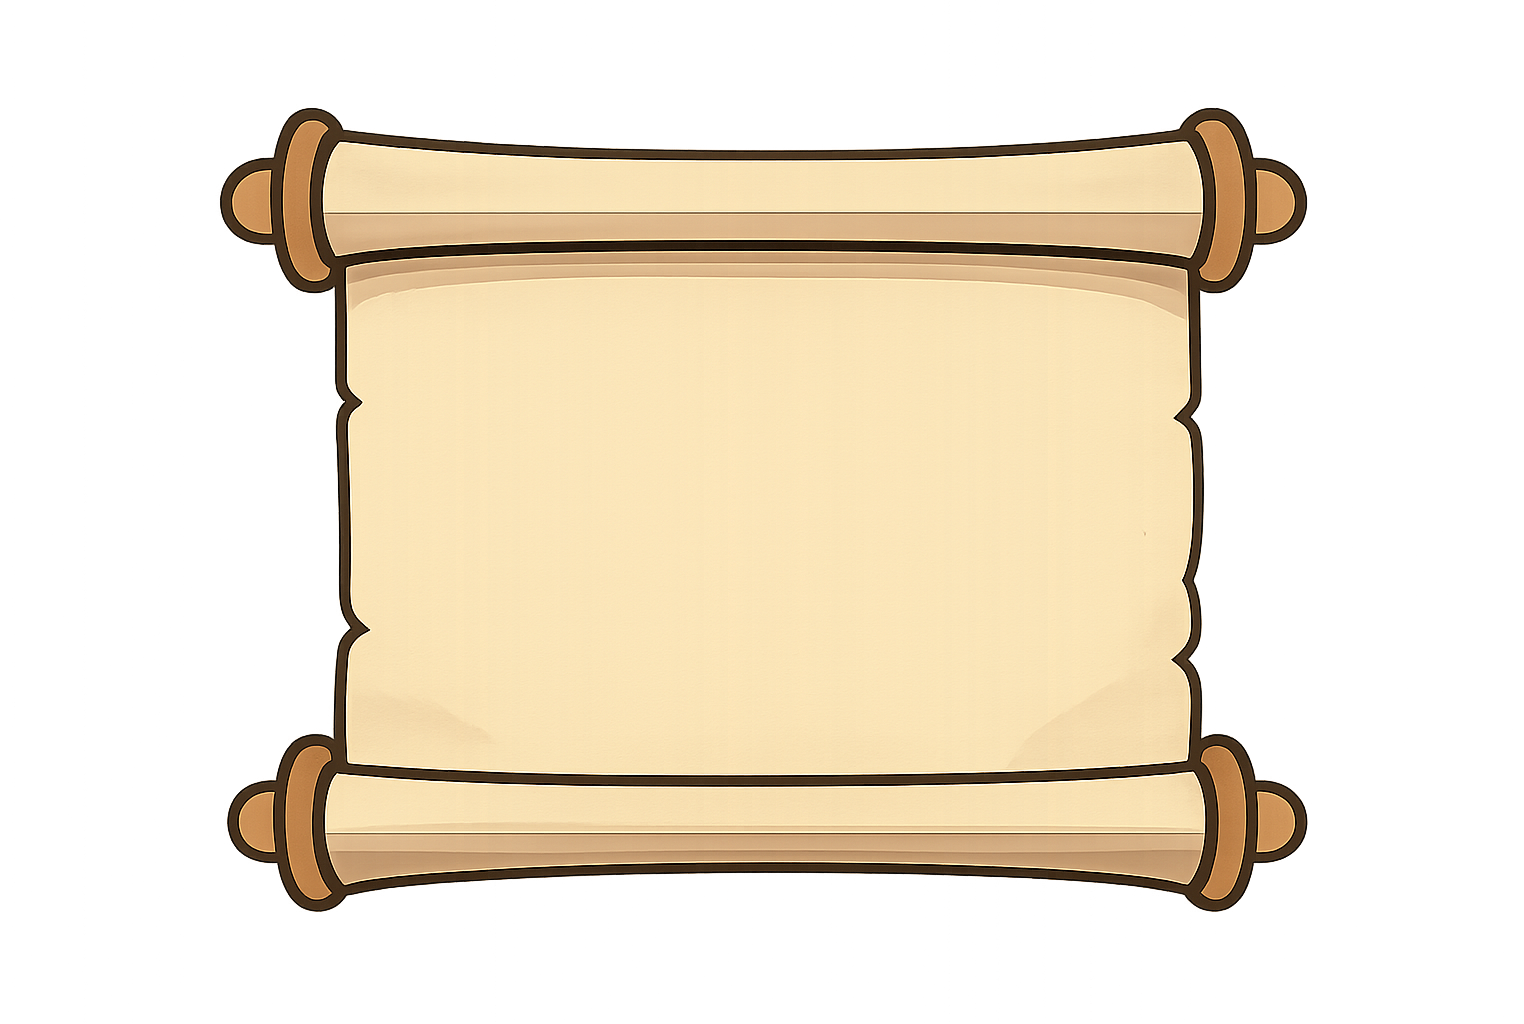
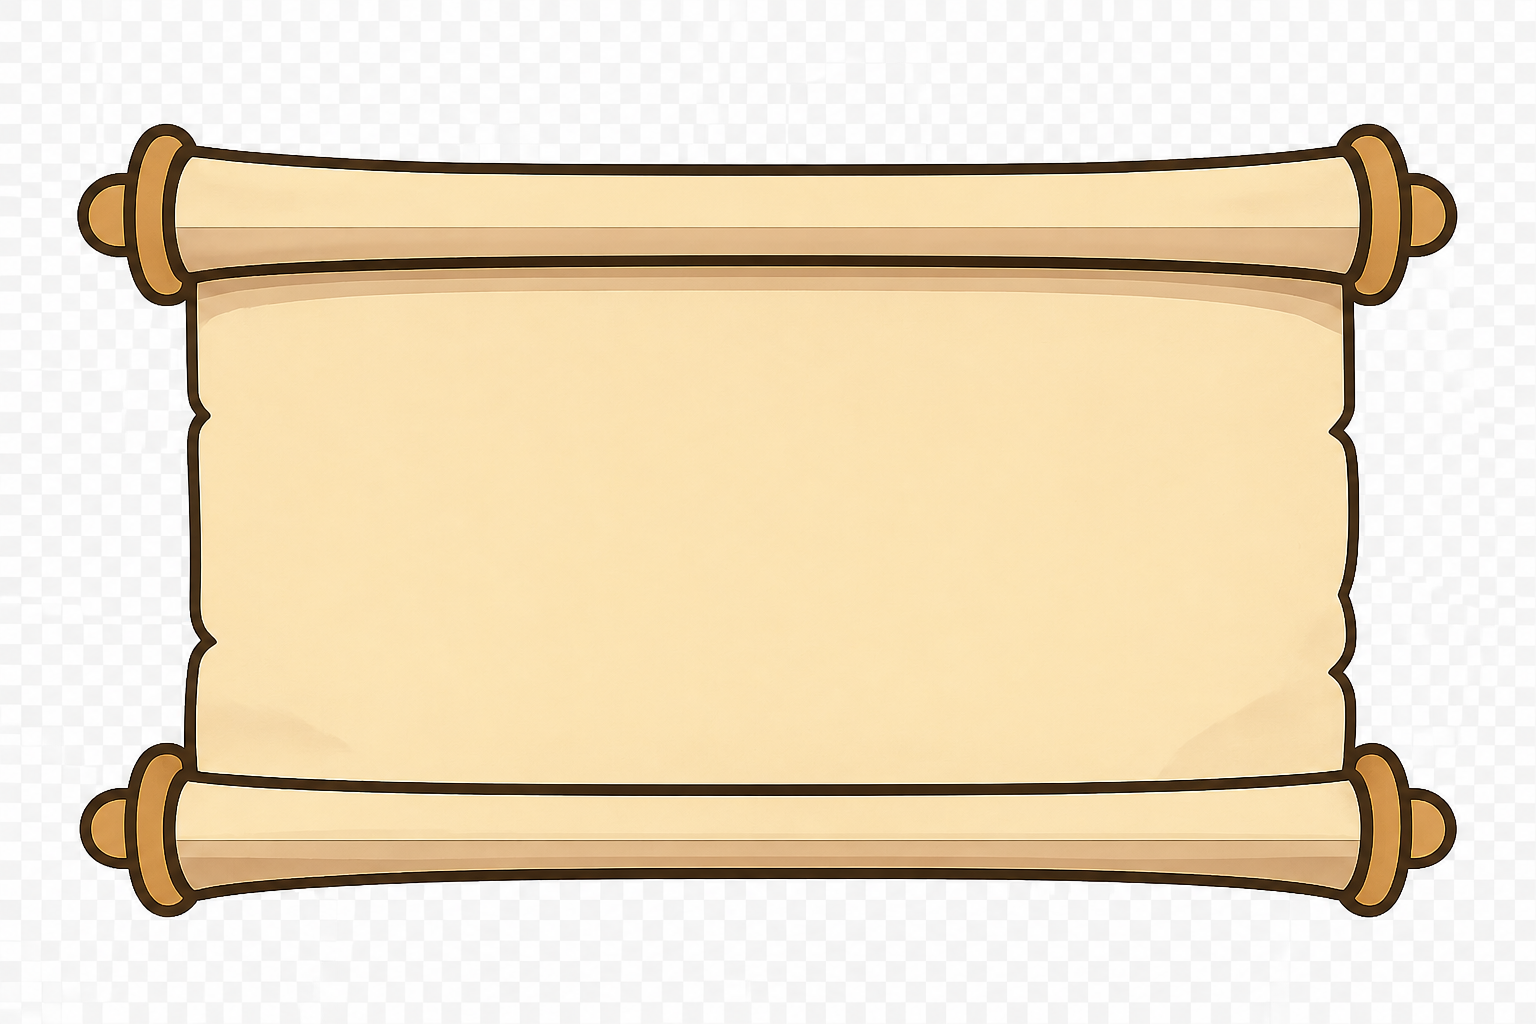
feat(branding): aggiorna pergamena larga e adatta proporzioni e spaziatura

Changed region(s): [[0.0308, 0.0938, 0.956, 0.9062]]

diff --git a/js/services/imprevisti-service.js b/js/services/imprevisti-service.js
@@ -495,14 +495,14 @@ window.renderStudentImprevistiNotice = function() {
 
     if (!activeEvents || activeEvents.length === 0) {
         banner.innerHTML = `
-            <div style="position: relative; width: 100%; aspect-ratio: 1524 / 1024; background: url('assets/branding/pergamena-imprevisti.png') no-repeat center center; background-size: 100% 100%; display: flex; flex-direction: column; align-items: center; justify-content: center; padding: 13% 18%; box-sizing: border-box; filter: drop-shadow(0 8px 22px rgba(0,0,0,0.5)); text-align: center; pointer-events: none; user-select: none;">
+            <div style="position: relative; width: 100%; aspect-ratio: 1536 / 1024; background: url('assets/branding/pergamena-imprevisti.png') no-repeat center center; background-size: 100% 100%; display: flex; flex-direction: column; align-items: center; justify-content: center; padding: 12% 16%; box-sizing: border-box; filter: drop-shadow(0 8px 22px rgba(0,0,0,0.5)); text-align: center; pointer-events: none; user-select: none;">
                 <div style="font-family: 'Cormorant Garamond', Georgia, serif; font-size: 0.85rem; font-weight: 800; color: #4a2c0c; text-transform: uppercase; letter-spacing: 0.8px; margin-bottom: 2px;">
                     📜 Bando della Gazzetta
                 </div>
-                <div id="fanta-pergamena-title" style="font-family: 'Cormorant Garamond', Georgia, serif; font-size: 1.12rem; font-weight: 700; color: #2c1a06; line-height: 1.25; margin-bottom: 3px;">
+                <div id="fanta-pergamena-title" style="font-family: 'Cormorant Garamond', Georgia, serif; font-size: 1.15rem; font-weight: 700; color: #2c1a06; line-height: 1.25; margin-bottom: 4px;">
                     Gli Imprevisti del Regno
                 </div>
-                <p id="fanta-pergamena-desc" style="font-family: 'Cormorant Garamond', Georgia, serif; font-size: 0.86rem; font-style: italic; color: #3f2710; line-height: 1.35; margin: 0; max-width: 270px;">
+                <p id="fanta-pergamena-desc" style="font-family: 'Cormorant Garamond', Georgia, serif; font-size: 0.88rem; font-style: italic; color: #3f2710; line-height: 1.35; margin: 0; max-width: 310px;">
                     In questa bacheca appariranno gli Imprevisti Letterari e il Mercato durante il Campionato.
                 </p>
             </div>
@@ -524,14 +524,14 @@ window.renderStudentImprevistiNotice = function() {
         if (loreText.length > 95) loreText = loreText.substring(0, 92) + '...';
 
         return `
-            <div style="position: relative; width: 100%; aspect-ratio: 1524 / 1024; background: url('assets/branding/pergamena-imprevisti.png') no-repeat center center; background-size: 100% 100%; display: flex; flex-direction: column; align-items: center; justify-content: center; padding: 13% 18%; box-sizing: border-box; filter: drop-shadow(0 8px 22px rgba(0,0,0,0.5)); text-align: center; pointer-events: none; user-select: none;">
+            <div style="position: relative; width: 100%; aspect-ratio: 1536 / 1024; background: url('assets/branding/pergamena-imprevisti.png') no-repeat center center; background-size: 100% 100%; display: flex; flex-direction: column; align-items: center; justify-content: center; padding: 12% 16%; box-sizing: border-box; filter: drop-shadow(0 8px 22px rgba(0,0,0,0.5)); text-align: center; pointer-events: none; user-select: none;">
                 <div style="font-family: 'Cormorant Garamond', Georgia, serif; font-size: 0.82rem; font-weight: 800; color: #4a2c0c; text-transform: uppercase; letter-spacing: 0.8px; margin-bottom: 2px;">
                     📜 Bando Ufficiale
                 </div>
-                <div style="font-family: 'Cormorant Garamond', Georgia, serif; font-size: 1.12rem; font-weight: 700; color: #2c1a06; line-height: 1.25; margin-bottom: 3px;">
+                <div style="font-family: 'Cormorant Garamond', Georgia, serif; font-size: 1.15rem; font-weight: 700; color: #2c1a06; line-height: 1.25; margin-bottom: 4px;">
                     ${ev.title || 'Nuovo Imprevisto'}
                 </div>
-                <p style="font-family: 'Cormorant Garamond', Georgia, serif; font-size: 0.86rem; font-style: italic; color: #3f2710; line-height: 1.35; margin: 0; max-width: 270px;">
+                <p style="font-family: 'Cormorant Garamond', Georgia, serif; font-size: 0.88rem; font-style: italic; color: #3f2710; line-height: 1.35; margin: 0; max-width: 310px;">
                     ${loreText}
                 </p>
                 ${badgeHtml}

diff --git a/index.html b/index.html
@@ -226,15 +226,15 @@
                 </div>
 
                 <!-- Bacheca Pergamena Imprevisti & Mercato (Discreta e Compatta - Testo scritto dentro) -->
-                <div id="student-imprevisti-banner" style="margin: 24px auto 10px auto; max-width: 440px; width: 100%; pointer-events: none; user-select: none;">
-                    <div style="position: relative; width: 100%; aspect-ratio: 1524 / 1024; background: url('assets/branding/pergamena-imprevisti.png') no-repeat center center; background-size: 100% 100%; display: flex; flex-direction: column; align-items: center; justify-content: center; padding: 13% 18%; box-sizing: border-box; filter: drop-shadow(0 8px 22px rgba(0,0,0,0.5)); text-align: center;">
+                <div id="student-imprevisti-banner" style="margin: 24px auto 10px auto; max-width: 480px; width: 100%; pointer-events: none; user-select: none;">
+                    <div style="position: relative; width: 100%; aspect-ratio: 1536 / 1024; background: url('assets/branding/pergamena-imprevisti.png') no-repeat center center; background-size: 100% 100%; display: flex; flex-direction: column; align-items: center; justify-content: center; padding: 12% 16%; box-sizing: border-box; filter: drop-shadow(0 8px 22px rgba(0,0,0,0.5)); text-align: center;">
                         <div style="font-family: 'Cormorant Garamond', Georgia, serif; font-size: 0.85rem; font-weight: 800; color: #4a2c0c; text-transform: uppercase; letter-spacing: 0.8px; margin-bottom: 2px;">
                             📜 Bando della Gazzetta
                         </div>
-                        <div id="fanta-pergamena-title" style="font-family: 'Cormorant Garamond', Georgia, serif; font-size: 1.12rem; font-weight: 700; color: #2c1a06; line-height: 1.25; margin-bottom: 3px;">
+                        <div id="fanta-pergamena-title" style="font-family: 'Cormorant Garamond', Georgia, serif; font-size: 1.15rem; font-weight: 700; color: #2c1a06; line-height: 1.25; margin-bottom: 4px;">
                             Gli Imprevisti del Regno
                         </div>
-                        <p id="fanta-pergamena-desc" style="font-family: 'Cormorant Garamond', Georgia, serif; font-size: 0.86rem; font-style: italic; color: #3f2710; line-height: 1.35; margin: 0; max-width: 270px;">
+                        <p id="fanta-pergamena-desc" style="font-family: 'Cormorant Garamond', Georgia, serif; font-size: 0.88rem; font-style: italic; color: #3f2710; line-height: 1.35; margin: 0; max-width: 310px;">
                             In questa bacheca appariranno gli Imprevisti Letterari e il Mercato durante il Campionato.
                         </p>
                     </div>
